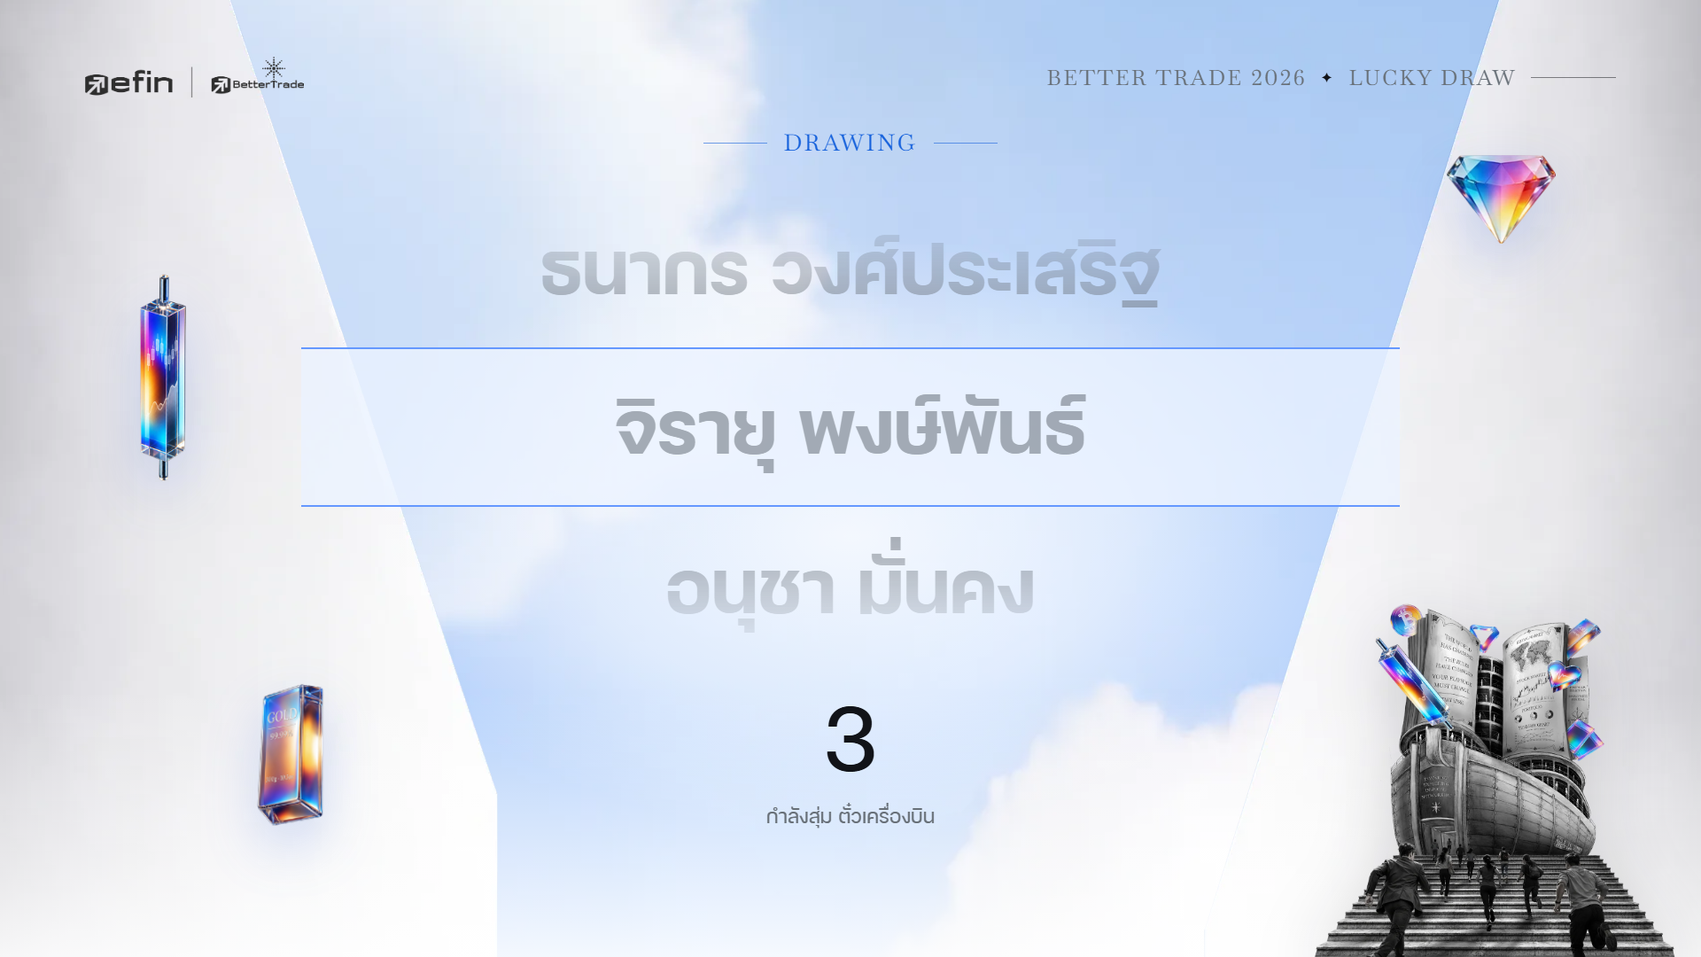
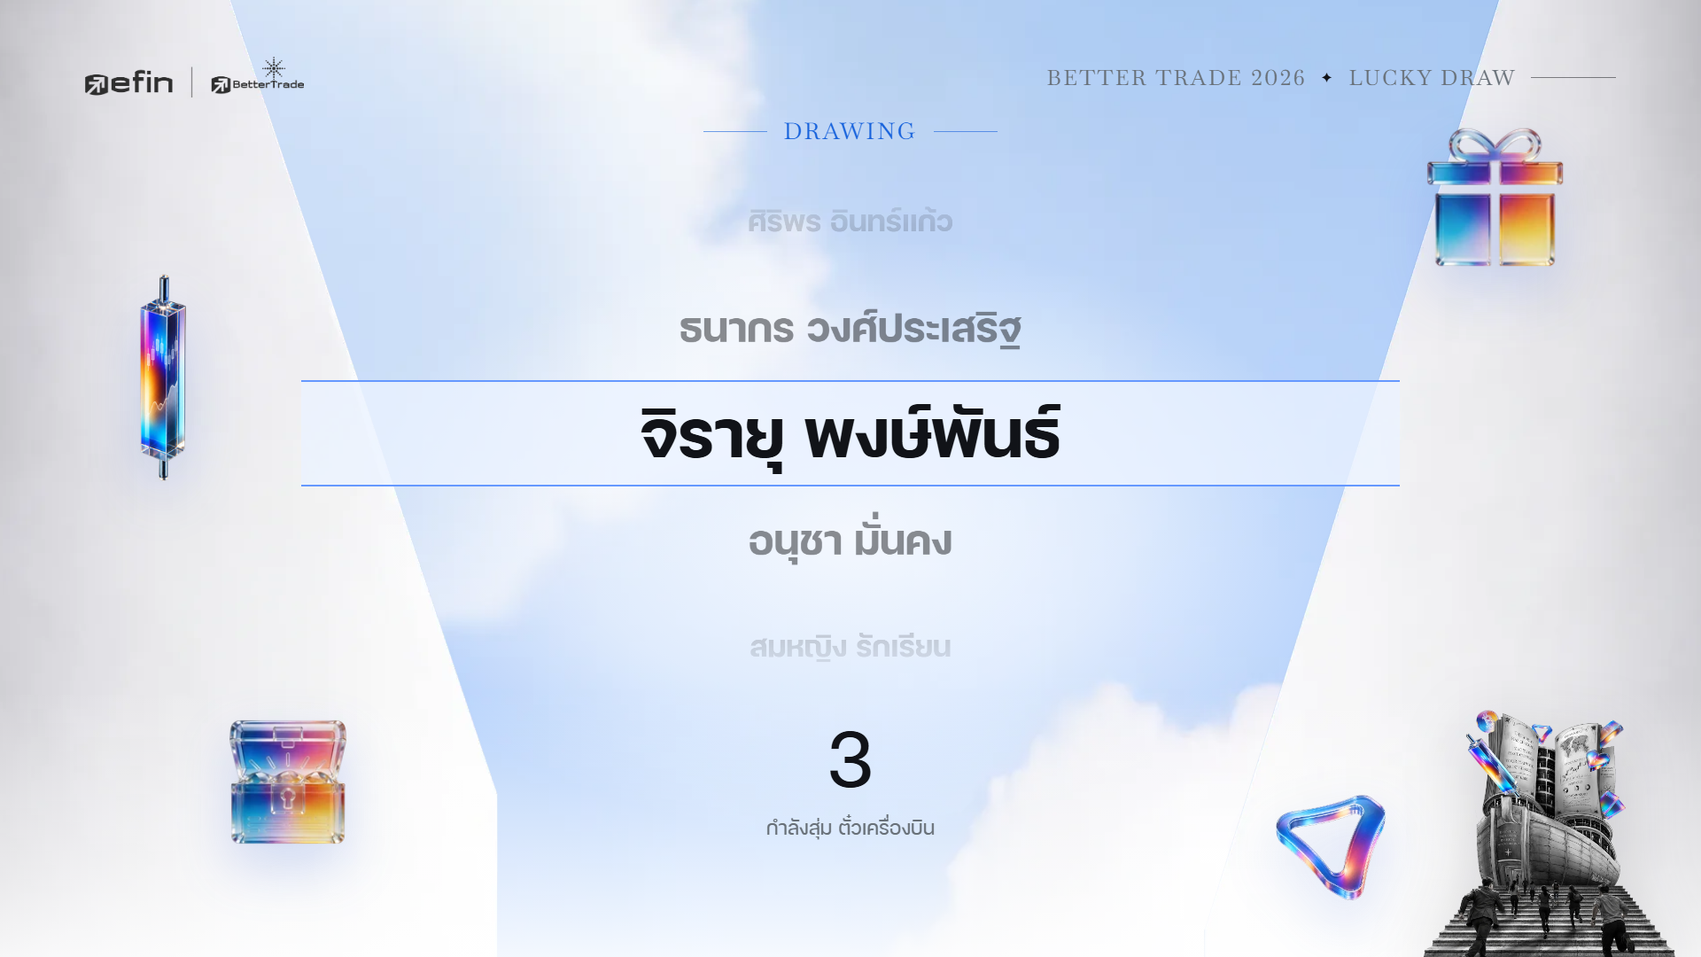
Rework scene decorations, wheel draw, type; add card-free winner boards
- Ship 280px with the efin symbol beside it; wall gift and chest replace diamond and gold bars
- Drawing A: gift boxes on both sides of the deck; drawing B is a wheel with a black active name
- Idle type bigger/700; reveal prize name larger, capped at 85% of the winner name
- Winners board gets B (order numbers) and C (grouped by prize) layouts without character cards, T key / ?board=
- render-previews: prefer Chrome, own profile, retry and fail loudly
- Remove unused images, regenerate previews

diff --git a/show-screen.html b/show-screen.html
@@ -42,13 +42,16 @@
   .floor{position:absolute;left:0;right:0;bottom:0;height:300px;background:linear-gradient(180deg,rgba(255,255,255,0),rgba(255,255,255,.85))}
 
   /* the ship is the gimmick: bottom-right, same size and place in every scene, behind all content */
-  .ship{position:absolute;right:28px;bottom:0;height:400px;filter:drop-shadow(0 20px 40px rgba(17,19,24,.18))}
+  .ship{position:absolute;right:28px;bottom:0;height:280px;filter:drop-shadow(0 20px 40px rgba(17,19,24,.18))}
 
   /* glass elements stay at the edges so the centre is free for names; the ship carries its own set */
   .el{position:absolute;filter:drop-shadow(0 26px 30px rgba(63,111,224,.22));animation:bob 6s ease-in-out infinite}
   .el.candle{left:60px;top:300px;width:250px;animation-delay:-1s}
-  .el.gold{left:250px;bottom:120px;width:150px;animation-delay:-3s}
-  .el.gem{right:150px;top:150px;width:150px;animation-delay:-1.5s}
+  .el.chest{left:240px;bottom:112px;width:170px;animation-delay:-3s}
+  .el.efin{right:356px;bottom:64px;width:124px;animation-delay:-2s}
+  .el.gift{right:138px;top:128px;width:190px;animation-delay:-1.5s;transition:opacity .6s}
+  /* the prize scene has its own big gift above the title, so the wall one steps aside there */
+  #stage[data-scene="prize"] .el.gift{opacity:0}
   @keyframes bob{50%{transform:translateY(-18px) rotate(-3deg)}}
 
   .top{position:absolute;left:96px;right:96px;top:64px;display:flex;justify-content:space-between;align-items:center;z-index:5}
@@ -68,8 +71,8 @@
   /* the headline leads; the event logo is the supporting identity (64% of its old width) */
   .idle img{width:480px;filter:drop-shadow(0 16px 32px rgba(17,19,24,.16))}
   .idle .k{margin-top:40px}
-  .idle h2{margin:18px 0 6px}
-  .idle p{margin-top:10px;font-size:34px;color:var(--ink-2)}
+  .idle h2{margin:18px 0 6px;font-size:170px;font-weight:700}
+  .idle p{margin-top:12px;font-size:46px;font-weight:700;color:var(--ink-2)}
 
   /* prize */
   .prize h2,.idle h2,.board h2{font-weight:600;font-size:150px;line-height:1.05;letter-spacing:-.01em}
@@ -94,19 +97,18 @@
   .dv{display:none;flex-direction:column;align-items:center}
   body.draw-A .dv-A,body.draw-B .dv-B{display:flex}
 
-  /* B: name reel, 3 visible rows, the centre row is the pick */
-  .reel{position:relative;width:1240px;height:540px;margin:34px 0 10px;overflow:hidden;
-    -webkit-mask-image:linear-gradient(180deg,transparent,#000 28%,#000 72%,transparent);mask-image:linear-gradient(180deg,transparent,#000 28%,#000 72%,transparent)}
-  .reel-band{position:absolute;left:0;right:0;top:180px;height:180px;border-block:2px solid var(--blue);background:var(--blue-tint)}
+  /* B: name wheel. 5 rows visible; the row on the centre band is full size and black, the others shrink and fade with distance */
+  .reel{position:relative;width:1240px;height:600px;margin:24px 0 6px;overflow:hidden;
+    -webkit-mask-image:linear-gradient(180deg,transparent,#000 22%,#000 78%,transparent);mask-image:linear-gradient(180deg,transparent,#000 22%,#000 78%,transparent)}
+  .reel-band{position:absolute;left:0;right:0;top:240px;height:120px;border-block:2px solid var(--blue);background:var(--blue-tint)}
   .reel-in{position:absolute;left:0;right:0;top:0;will-change:transform}
-  .reel-in div{height:180px;line-height:180px;font-size:112px;font-weight:600;white-space:nowrap;color:var(--ink-3);opacity:.55}
-  .reel-in div.hit{color:var(--ink);opacity:1}
-  /* A: prize pieces flank the shuffling deck (outside its +-120px sweep) */
-  .flank{position:absolute;top:210px;width:170px;height:170px;filter:drop-shadow(0 18px 22px rgba(63,111,224,.25));animation:bob 6s ease-in-out infinite}
-  .flank.l{left:calc(50% - 480px)}
-  .flank.r{left:calc(50% + 310px);animation-delay:-3s}
+  .reel-in div{position:absolute;left:0;right:0;height:120px;line-height:120px;font-size:100px;font-weight:700;white-space:nowrap;color:var(--ink);text-align:center;will-change:transform,opacity}
+  /* A: a gift box on each side of the shuffling deck (outside its +-120px sweep), tilted apart */
   .dv-A{position:relative}
-  .dv-B .count{font-size:140px;min-height:140px}
+  .flank{position:absolute;top:210px;width:170px;height:170px;filter:drop-shadow(0 18px 22px rgba(63,111,224,.25));animation:bob 6s ease-in-out infinite}
+  .flank.l{left:calc(50% - 480px);rotate:-8deg}
+  .flank.r{left:calc(50% + 310px);animation-delay:-3s;rotate:8deg}
+  .dv-B .count{font-size:120px;min-height:120px}
 
   .count.tick{animation:tick .9s cubic-bezier(.2,.8,.2,1)}
   @keyframes tick{from{transform:scale(1.35);opacity:0;color:var(--blue-ink)}to{transform:none;opacity:1}}
@@ -117,21 +119,14 @@
   .redraw p{font-size:34px;color:var(--ink-2);margin-top:16px}
 
   /* reveal */
-  .drop{position:absolute;opacity:0;transform:scale(.4) translateY(36px);
-    transition:opacity .6s ease calc(var(--d) * 1s),transform .9s cubic-bezier(.2,1.3,.3,1) calc(var(--d) * 1s)}
-  .scene.on .drop{opacity:1;transform:rotate(var(--r,0deg))}
-  .drop img{display:block;width:100%;filter:drop-shadow(0 16px 20px rgba(63,111,224,.25));animation:bob 5.5s ease-in-out infinite;animation-delay:calc(var(--d) * -4s)}
   /* reveal: one centred column, no character card */
   .who{width:1400px;display:flex;flex-direction:column;align-items:center;text-align:center}
-  .crownrow{position:relative;width:92px;height:92px}
-  .crownrow .drop.l{right:calc(100% + 56px);top:-30px;width:156px}
-  .crownrow .drop.r{left:calc(100% + 56px);top:-24px;width:150px}
   .who .crown{width:92px;height:92px;display:block;filter:drop-shadow(0 10px 16px rgba(63,111,224,.3))}
   .lucky{margin-top:10px;font-size:36px;color:var(--ink-2);display:flex;align-items:center;gap:14px}
   .lucky i{font-style:normal;font-size:22px;color:var(--ink)}
   /* font size is fitted to the width in JS so long names stay on one line */
   .who h1{font-weight:600;font-size:170px;line-height:1.15;margin:6px 0 0;letter-spacing:-.01em;white-space:nowrap}
-  .who .pline{margin-top:18px;font-size:84px;font-weight:600;line-height:1.15;color:var(--blue-ink)}
+  .who .pline{margin-top:18px;font-size:120px;font-weight:700;line-height:1.15;color:var(--blue-ink)}
   .who .meta{margin-top:24px;font-size:28px;color:var(--ink-3)}
 
   /* board */
@@ -144,6 +139,22 @@
   .tile b{display:block;font-size:40px;font-weight:600;line-height:1.2;white-space:nowrap;overflow:hidden;text-overflow:ellipsis}
   .tile small{display:block;font-size:30px;font-weight:500;color:var(--blue-ink);margin-top:2px;white-space:nowrap;overflow:hidden;text-overflow:ellipsis}
   .board .empty{font-size:34px;color:var(--ink-3)}
+  /* B: same grid, a big order number instead of the character card */
+  .tile .rank{flex:none;width:84px;text-align:center;font-size:58px;font-weight:600;line-height:1;color:var(--blue-ink)}
+  .grid.ranked .tile{padding:16px 18px 16px 10px}
+  .grid.ranked .tile b{font-size:46px;font-weight:700}
+  /* C: one glass column per prize, winners listed under the prize name */
+  .groups{display:flex;gap:18px;justify-content:center;align-items:flex-start;width:1656px}
+  .group{flex:1 1 0;min-width:0;max-width:540px;text-align:left;background:rgba(255,255,255,.82);border:1px solid var(--line);backdrop-filter:blur(6px)}
+  .group header{display:flex;align-items:center;gap:14px;padding:16px 20px;border-bottom:1px solid var(--line)}
+  .group header img{width:52px;height:52px;flex:none}
+  .group header div{min-width:0}
+  .group header b{display:block;font-size:34px;font-weight:700;line-height:1.2;color:var(--blue-ink);white-space:nowrap;overflow:hidden;text-overflow:ellipsis}
+  .group header small{display:block;font-size:22px;color:var(--ink-2)}
+  .group ol{list-style:none;padding:8px 20px 14px}
+  .group li{display:flex;align-items:baseline;gap:14px;padding:6px 0}
+  .group li i{flex:none;width:58px;font-style:normal;font-size:24px;font-weight:500;color:var(--blue-ink)}
+  .group li b{min-width:0;flex:1;font-size:36px;font-weight:600;line-height:1.25;white-space:nowrap;overflow:hidden;text-overflow:ellipsis}
 
   #confetti{position:absolute;inset:0;z-index:3;pointer-events:none}
   .guide{position:absolute;inset:54px 96px;border:2px dashed rgba(229,59,216,.7);z-index:9;display:none;pointer-events:none}
@@ -181,10 +192,11 @@
   <div class="floor"></div>
   <div class="halo"></div>
   <img class="ship" src="prize-assets/img/kv-ship.webp" alt="">
+  <img class="el efin" src="prize-assets/img/efin-symbol.webp" alt="">
 
   <img class="el candle" src="prize-assets/img/candle.png" alt="">
-  <img class="el gold" src="prize-assets/img/gold.png" alt="">
-  <img class="el gem" src="prize-assets/img/diamond-icon.webp" alt="">
+  <img class="el chest" src="prize-assets/img/chest.webp" alt="">
+  <img class="el gift" src="prize-assets/img/gift.webp" alt="">
 
   <div class="top">
     <img src="prize-assets/img/efinBT.png" alt="efin | BetterTrade">
@@ -214,8 +226,8 @@
 
     <!-- A: shuffling deck of back cards -->
     <div class="dv dv-A">
-      <img class="flank l" src="prize-assets/img/chest.webp" alt="">
-      <img class="flank r" src="prize-assets/img/gold-bars.webp" alt="">
+      <img class="flank l" src="prize-assets/img/gift.webp" alt="">
+      <img class="flank r" src="prize-assets/img/gift.webp" alt="">
       <div class="deck">
         <img src="prize-assets/cards/back.webp" alt="" style="--i:0">
         <img src="prize-assets/cards/back.webp" alt="" style="--i:1">
@@ -241,12 +253,7 @@
 
   <section class="scene reveal" data-scene="reveal">
     <div class="who">
-      <!-- gift and chest hang off the crown as a mirrored pair, so they move with it when a long name resizes the block -->
-      <div class="crownrow">
-        <span class="drop l" style="--d:.5;--r:-9deg"><img src="prize-assets/img/gift.webp" alt=""></span>
-        <img class="crown" src="prize-assets/img/ICON_CROWN_PNG.png" alt="">
-        <span class="drop r" style="--d:.7;--r:9deg"><img src="prize-assets/img/chest.webp" alt=""></span>
-      </div>
+      <img class="crown" src="prize-assets/img/ICON_CROWN_PNG.png" alt="">
       <div class="lucky"><i>✦</i>ผู้โชคดี<i>✦</i></div>
       <h1 id="wName"></h1>
       <div class="pline" id="wLine"></div>
@@ -279,6 +286,10 @@
   <span class="sep"></span>
   <button data-draw="A" title="V">สุ่ม A ไพ่</button>
   <button data-draw="B">สุ่ม B รายชื่อ</button>
+  <span class="sep"></span>
+  <button data-board="A" title="T">ตาราง A การ์ด</button>
+  <button data-board="B">ตาราง B ลำดับ</button>
+  <button data-board="C">ตาราง C ตามรางวัล</button>
   <span class="sep"></span>
   <button id="demoFs" title="F">เต็มจอ</button>
 </div>
@@ -328,7 +339,16 @@ function setDraw(x){
   document.querySelectorAll("#demoBar [data-draw]").forEach(b => b.setAttribute("aria-pressed", b.dataset.draw === drawStyle));
 }
 
-const ROW = 180;
+// ---- winners board style: A character cards / B order numbers / C grouped by prize (T cycles, ?board=B picks) ----
+const BOARDS = ["A", "B", "C"];
+let boardStyle = "A", lastBoard = null;
+function setBoard(x){
+  boardStyle = BOARDS.includes(x) ? x : "A";
+  document.querySelectorAll("#demoBar [data-board]").forEach(b => b.setAttribute("aria-pressed", b.dataset.board === boardStyle));
+  if(lastBoard && stage.dataset.scene === "board") showBoard(lastBoard);
+}
+
+const ROW = 120, WIN = 600;
 function startReel(st, dur){
   const names = D.PEOPLE.map(p => nm(p.n));
   for(let i = names.length - 1; i > 0; i--){ const j = Math.floor(rand() * (i + 1)); [names[i], names[j]] = [names[j], names[i]]; }
@@ -336,15 +356,24 @@ function startReel(st, dur){
   for(let i = 0; i < N - 1; i++) rows.push(names[i % names.length]);
   rows.push(st.winner ? nm(st.winner.n) : names[0]);
   const inner = $("#reelIn");
-  inner.innerHTML = rows.map(n => `<div>${esc(n)}</div>`).join("");
-  const set = e => inner.style.transform = `translateY(${ROW - (1 + (N - 2) * e) * ROW}px)`;
-  if(STILL){ set((N - 7) / (N - 2)); return; }
-  set(0);
+  inner.innerHTML = rows.map((n, i) => `<div style="top:${i * ROW}px">${esc(n)}</div>`).join("");
+  const els = [...inner.children];
+  // p = which row sits on the centre band (fractional while rolling); distance d from it drives size and fade
+  const set = p => {
+    inner.style.transform = `translateY(${(WIN - ROW) / 2 - p * ROW}px)`;
+    els.forEach((el, i) => {
+      const d = Math.abs(i - p);
+      el.style.transform = `scale(${1 / (1 + .62 * d)})`;
+      el.style.opacity = d > 2.6 ? 0 : 1 / (1 + 1.1 * d);
+    });
+  };
+  if(STILL){ set(N - 6); return; }
+  set(1);
   const t0 = performance.now(), len = Math.max(600, dur - 250);
   const step = now => {
     const k = Math.min(1, (now - t0) / len);
-    set(1 - Math.pow(1 - k, 4));
-    if(k < 1) reelRaf = requestAnimationFrame(step); else inner.lastElementChild.classList.add("hit");
+    set(1 + (N - 2) * (1 - Math.pow(1 - k, 4)));
+    if(k < 1) reelRaf = requestAnimationFrame(step);
   };
   reelRaf = requestAnimationFrame(step);
 }
@@ -391,20 +420,49 @@ function showReveal(st, instant){
   h1.style.fontSize = "";
   const max = h1.parentElement.clientWidth;
   if(h1.scrollWidth > max) h1.style.fontSize = `${Math.floor(170 * max / h1.scrollWidth)}px`;
+  // the prize stays prominent but never outgrows the winner name: at most 85% of its size
+  const nameSize = parseFloat(getComputedStyle(h1).fontSize);
+  $("#wLine").style.fontSize = `${Math.min(120, Math.floor(nameSize * .85))}px`;
   if(!instant) later(confetti, 300);
 }
 
 function showBoard(st){
-  const list = st.winners.slice(-12);
-  $("#grid").className = list.length ? "grid" : "";
-  $("#grid").innerHTML = list.length ? list.map(w => `<div class="tile">
-      <img src="prize-assets/cards/${w.c || "back"}.webp" alt="">
-      <div><b>${esc(nm(w.n))}</b><small>${esc(w.prize)} ที่ ${w.no}</small></div></div>`).join("")
-    : `<p class="empty">ยังไม่มีผู้ได้รับรางวัล</p>`;
+  lastBoard = st;
+  const list = st.winners.slice(-12), grid = $("#grid");
+  const label = w => `${esc(w.prize)} ที่ ${w.no}`;
+  if(!list.length){
+    grid.className = "";
+    grid.innerHTML = `<p class="empty">ยังไม่มีผู้ได้รับรางวัล</p>`;
+  } else if(boardStyle === "C"){
+    // group by prize in the order prizes were first drawn; keep the latest 4 groups
+    const groups = [];
+    for(const w of list){
+      let g = groups.find(x => x.prize === w.prize);
+      if(!g) groups.push(g = { prize: w.prize, people: [] });
+      g.people.push(w);
+    }
+    grid.className = "groups";
+    grid.innerHTML = groups.slice(-4).map(g => {
+      const qty = (D.PRIZES.find(p => p.name === g.prize) || {}).qty;
+      return `<section class="group"><header><img src="prize-assets/img/gift.webp" alt="">
+        <div><b>${esc(g.prize)}</b><small>ผู้โชคดี ${g.people.length}${qty ? ` จาก ${qty}` : ""} รางวัล</small></div></header>
+        <ol>${g.people.map(w => `<li><i>ที่ ${w.no}</i><b>${esc(nm(w.n))}</b></li>`).join("")}</ol></section>`;
+    }).join("");
+  } else {
+    grid.className = boardStyle === "B" ? "grid ranked" : "grid";
+    const first = st.winners.length - list.length;
+    grid.innerHTML = list.map((w, i) => `<div class="tile">
+      ${boardStyle === "B" ? `<span class="rank">${String(first + i + 1).padStart(2, "0")}</span>` : `<img src="prize-assets/cards/${w.c || "back"}.webp" alt="">`}
+      <div><b>${esc(nm(w.n))}</b><small>${label(w)}</small></div></div>`).join("");
+  }
   go("board");
-  document.querySelectorAll("#grid .tile b").forEach(b => {
-    b.style.fontSize = "";
-    if(b.scrollWidth > b.clientWidth) b.style.fontSize = Math.max(26, Math.floor(40 * b.clientWidth / b.scrollWidth)) + "px";
+  // long names shrink to fit (down to 26px), then ellipsis
+  grid.querySelectorAll("b").forEach(el => {
+    el.style.fontSize = "";
+    if(el.scrollWidth > el.clientWidth){
+      const base = parseFloat(getComputedStyle(el).fontSize);
+      el.style.fontSize = Math.max(26, Math.floor(base * el.clientWidth / el.scrollWidth)) + "px";
+    }
   });
 }
 
@@ -473,6 +531,7 @@ function tick(){
 }
 
 setDraw(params.get("draw"));
+setBoard(params.get("board"));
 
 // ---- controller: staff drive the scenes by hand (keys / bar / ?scene=). ?demo auto-plays a loop.
 //      Preview params: ?still (settled frame, no motion), ?case=long|nosurname, ?n=0..12 winners on the board ----
@@ -557,6 +616,7 @@ setDraw(params.get("draw"));
     else if(k === "[") nextPrize(-1);
     else if(k === "r" || k === "R") redraw();
     else if(k === "v" || k === "V") cycleDraw();
+    else if(k === "t" || k === "T") setBoard(BOARDS[(BOARDS.indexOf(boardStyle) + 1) % BOARDS.length]);
     else if(k === "h" || k === "H") document.body.classList.toggle("bar-pin");
   });
 
@@ -570,6 +630,8 @@ setDraw(params.get("draw"));
     if(b) jump(b.dataset.demo);
     const d = e.target.closest("[data-draw]");
     if(d) setDraw(d.dataset.draw);
+    const t = e.target.closest("[data-board]");
+    if(t) setBoard(t.dataset.board);
     if(e.target.closest("#prizePrev")) nextPrize(-1);
     if(e.target.closest("#prizeNext")) nextPrize(1);
     if(e.target.closest("#redrawBtn")) redraw();

diff --git a/tools/render-previews.js b/tools/render-previews.js
@@ -1,4 +1,5 @@
-// Renders every scene in prize-assets/scenes.js to previews/<id>.png at 1920x1080, using headless Edge or Chrome.
+// Renders every scene in prize-assets/scenes.js to previews/<id>.png at 1920x1080, using headless Chrome (Edge as a fallback:
+// when Edge is already running it hands the job to that window and writes nothing).
 // Needs the site served locally first (the "mockup" server in .claude/launch.json, port 5173).
 //   node tools/render-previews.js [baseUrl]
 const fs = require("fs"), path = require("path"), vm = require("vm"), { execFileSync } = require("child_process");
@@ -12,21 +13,38 @@ vm.runInNewContext(fs.readFileSync(path.join(root, "prize-assets/scenes.js"), "u
 const scenes = ctx.window.SCENES;
 
 const browser = [
+  "C:/Program Files/Google/Chrome/Application/chrome.exe",
+  "C:/Program Files (x86)/Google/Chrome/Application/chrome.exe",
   "C:/Program Files (x86)/Microsoft/Edge/Application/msedge.exe",
   "C:/Program Files/Microsoft/Edge/Application/msedge.exe",
-  "C:/Program Files/Google/Chrome/Application/chrome.exe",
   "/Applications/Google Chrome.app/Contents/MacOS/Google Chrome",
   "/usr/bin/google-chrome",
 ].find(p => fs.existsSync(p));
 if(!browser){ console.error("No Edge or Chrome found."); process.exit(1); }
 
+// fail fast if the site is not being served, otherwise Edge writes nothing and old PNGs look current
+try { require("child_process").execFileSync(process.execPath, ["-e", `fetch("${base}/show-screen.html").then(r => process.exit(r.ok ? 0 : 1)).catch(() => process.exit(1))`], { stdio: "ignore" }); }
+catch { console.error(`Cannot reach ${base}. Start the "mockup" preview server first.`); process.exit(1); }
+
 fs.mkdirSync(out, { recursive: true });
+// own throwaway profile, so an Edge/Chrome window that is already open does not swallow the headless run
+const profile = fs.mkdtempSync(path.join(require("os").tmpdir(), "render-previews-"));
 for(const s of scenes){
   const file = path.join(out, `${s.id}.png`);
-  execFileSync(browser, [
-    "--headless=new", "--disable-gpu", "--hide-scrollbars", "--force-device-scale-factor=1",
-    "--window-size=1920,1080", "--virtual-time-budget=5000",
-    `--screenshot=${file}`, `${base}/show-screen.html?still&${s.q}`,
-  ], { stdio: "ignore" });
+  let ok = false;
+  // headless Edge occasionally exits without writing the screenshot, so retry a few times
+  for(let attempt = 0; attempt < 4 && !ok; attempt++){
+    const started = Date.now();
+    try {
+      execFileSync(browser, [
+        "--headless=new", `--user-data-dir=${profile}`, "--disable-gpu", "--hide-scrollbars", "--force-device-scale-factor=1",
+        "--window-size=1920,1080", "--virtual-time-budget=5000",
+        `--screenshot=${file}`, `${base}/show-screen.html?still&${s.q}`,
+      ], { stdio: "ignore", timeout: 60000 });
+    } catch {}
+    ok = fs.existsSync(file) && fs.statSync(file).mtimeMs >= started;
+  }
+  if(!ok){ console.error(`${s.id}.png was not rendered`); process.exit(1); }
   console.log(`${s.id}.png  ${(fs.statSync(file).size / 1024 | 0)} KB`);
 }
+fs.rmSync(profile, { recursive: true, force: true });

diff --git a/prize-assets/scenes.js b/prize-assets/scenes.js
@@ -6,12 +6,16 @@ window.SCENES = [
   { group: "main", id: "drawing-a",  title: "กำลังสุ่ม · A ไพ่",      q: "scene=drawing&draw=A" },
   { group: "main", id: "drawing-b",  title: "กำลังสุ่ม · B รายชื่อ",   q: "scene=drawing&draw=B" },
   { group: "main", id: "reveal",     title: "ผู้โชคดี",               q: "scene=reveal" },
-  { group: "main", id: "board",      title: "ตารางผู้ชนะ",            q: "scene=board" },
+  { group: "main", id: "board",      title: "ตารางผู้ชนะ · A การ์ด",     q: "scene=board" },
+  { group: "main", id: "board-b",    title: "ตารางผู้ชนะ · B ลำดับ",     q: "scene=board&board=B" },
+  { group: "main", id: "board-c",    title: "ตารางผู้ชนะ · C ตามรางวัล",  q: "scene=board&board=C" },
 
   { group: "case", id: "reveal-long",      title: "ผู้โชคดี · ชื่อยาวพิเศษ",       q: "scene=reveal&case=long" },
   { group: "case", id: "reveal-nosurname", title: "ผู้โชคดี · ไม่มีนามสกุล",       q: "scene=reveal&case=nosurname" },
   { group: "case", id: "prize-last",       title: "ประกาศรางวัล · รางวัลที่ 4",    q: "scene=prize&prize=4" },
   { group: "case", id: "board-1",          title: "ตารางผู้ชนะ · 1 คน",          q: "scene=board&n=1" },
-  { group: "case", id: "board-12",         title: "ตารางผู้ชนะ · ครบ 12 คน + ชื่อยาว", q: "scene=board&n=12&case=long" },
+  { group: "case", id: "board-12",         title: "ตาราง A · ครบ 12 คน + ชื่อยาว", q: "scene=board&n=12&case=long" },
+  { group: "case", id: "board-12-b",       title: "ตาราง B · ครบ 12 คน + ชื่อยาว", q: "scene=board&n=12&case=long&board=B" },
+  { group: "case", id: "board-12-c",       title: "ตาราง C · ครบ 12 คน + ชื่อยาว", q: "scene=board&n=12&case=long&board=C" },
   { group: "case", id: "board-0",          title: "ตารางผู้ชนะ · ยังไม่มีผู้ชนะ",    q: "scene=board&n=0" },
 ];

diff --git a/index.html b/index.html
@@ -69,6 +69,7 @@
       <div><dt><kbd>[</kbd> <kbd>]</kbd></dt><dd>เปลี่ยนรางวัล</dd></div>
       <div><dt><kbd>R</kbd></dt><dd>สุ่มใหม่</dd></div>
       <div><dt><kbd>V</kbd></dt><dd>สลับสไตล์การสุ่ม A / B</dd></div>
+      <div><dt><kbd>T</kbd></dt><dd>สลับแบบตารางผู้ชนะ A / B / C</dd></div>
       <div><dt><kbd>H</kbd></dt><dd>โชว์หรือซ่อนแถบปุ่ม</dd></div>
       <div><dt><kbd>F</kbd></dt><dd>เต็มจอ</dd></div>
       <div><dt><kbd>G</kbd></dt><dd>เส้น safe area 16:9</dd></div>
